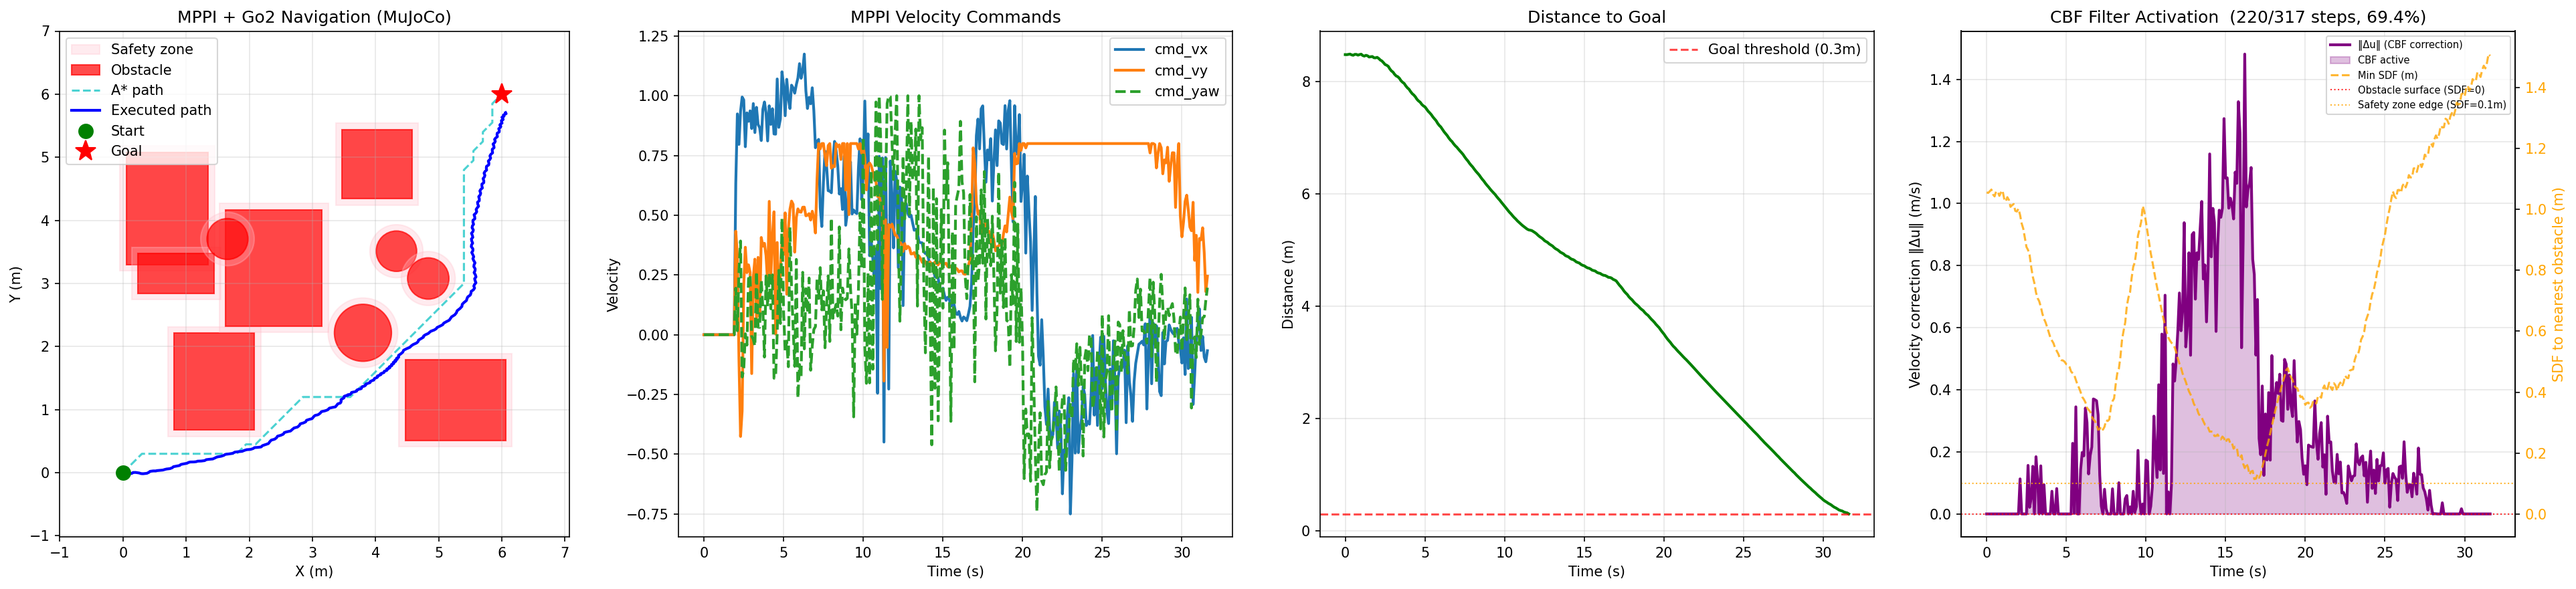
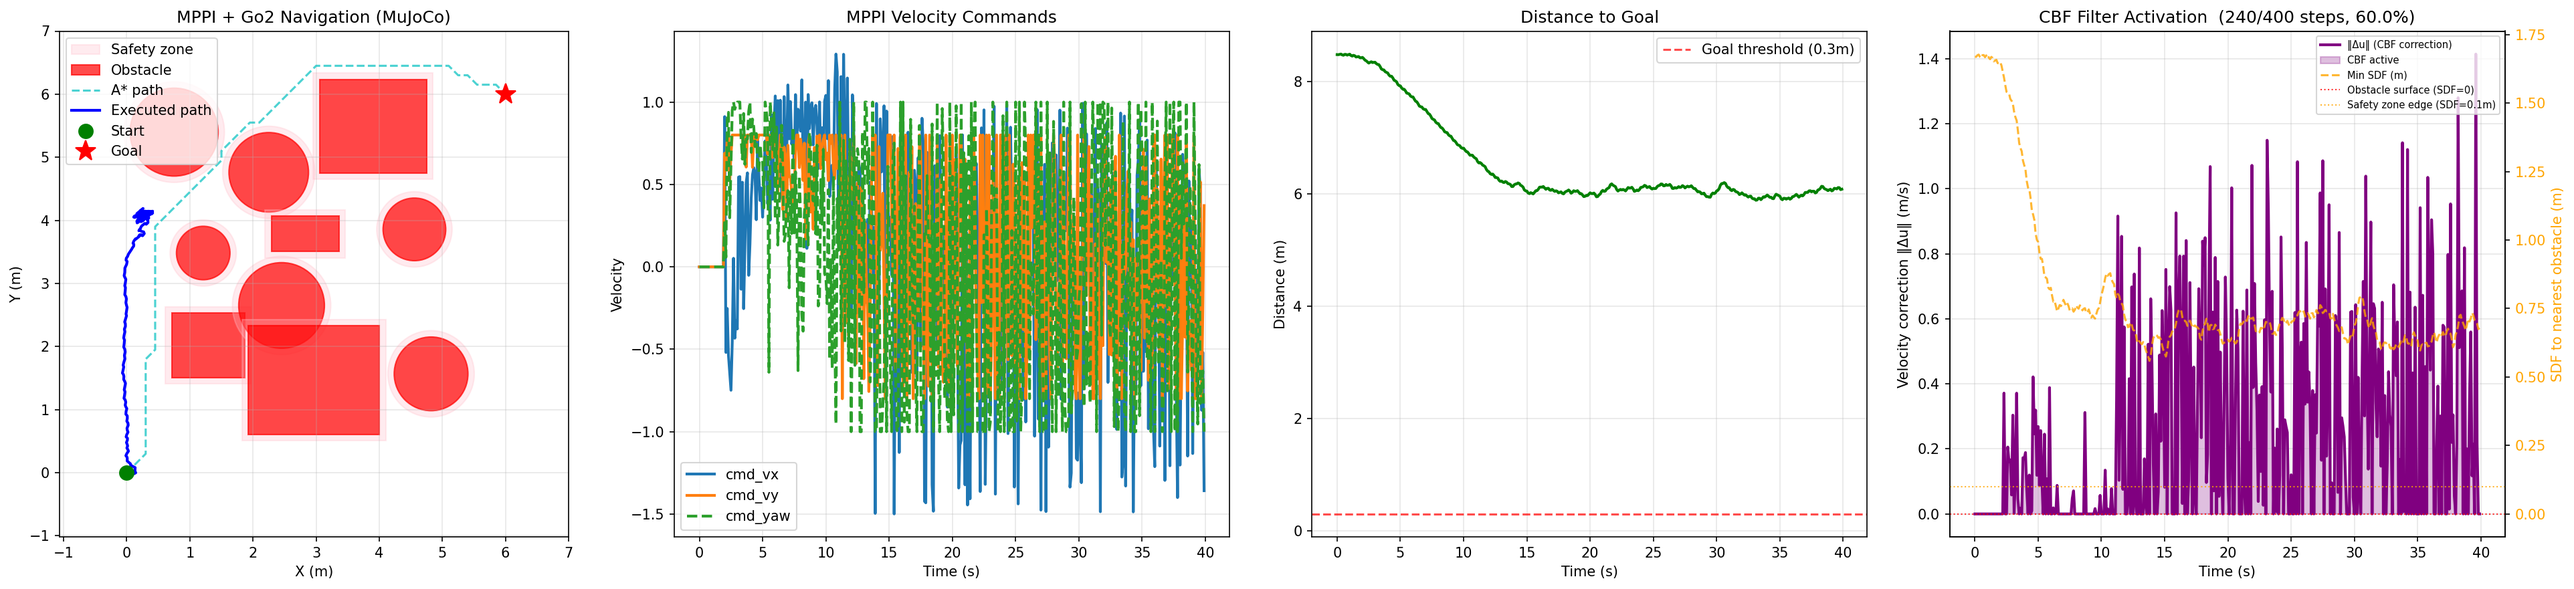
fix #1

diff --git a/global_planner.py b/global_planner.py
@@ -31,16 +31,26 @@ class AStarPlanner:
         bounds: Tuple[float, float, float, float],  # xmin, xmax, ymin, ymax
         resolution: float = 0.15,
         safety_margin: float = 0.5,
+        robot_half_width: float = 0.0,
+        robot_half_length: float = 0.0,
     ):
-        self.obstacles     = obstacles
-        self.resolution    = resolution
-        self.safety_margin = safety_margin
+        self.obstacles          = obstacles
+        self.resolution         = resolution
+        self.safety_margin      = safety_margin
+        # Lateral half-extent used for grid inflation.  A cell is free only if
+        # the dog's side can clear the obstacle by at least safety_margin when
+        # the body is aligned with the passage (best-case orientation).
+        self.robot_half_width   = robot_half_width
+        # Fore-aft half-extent kept for reference / future use.
+        self.robot_half_length  = robot_half_length
 
         self.xmin, self.xmax, self.ymin, self.ymax = bounds
         self.nx = int(np.ceil((self.xmax - self.xmin) / resolution)) + 1
         self.ny = int(np.ceil((self.ymax - self.ymin) / resolution)) + 1
 
         print(f"A* grid: {self.nx}×{self.ny} cells at {resolution:.2f} m resolution")
+        print(f"  Robot footprint: {2*robot_half_length:.2f} m × {2*robot_half_width:.2f} m  "
+              f"effective margin: {safety_margin + robot_half_width:.2f} m")
         self.grid = self._build_grid()
         free = int(np.sum(~self.grid))
         print(f"  Free cells: {free}/{self.nx * self.ny}")
@@ -48,13 +58,22 @@ class AStarPlanner:
     # ── grid helpers ──────────────────────────────────────────────────────────
 
     def _build_grid(self) -> np.ndarray:
-        """True = occupied (inside inflated obstacle), False = free."""
+        """True = occupied (inside inflated obstacle), False = free.
+
+        A cell is marked occupied if the robot's center placed there would put
+        the dog's lateral body surface closer than ``safety_margin`` to any
+        obstacle surface, assuming the dog is optimally aligned (long axis
+        parallel to the passage).  This means the required center-to-surface
+        clearance is ``safety_margin + robot_half_width``, ensuring A* only
+        plans paths the dog can physically thread through.
+        """
+        effective_margin = self.safety_margin + self.robot_half_width
         grid = np.zeros((self.nx, self.ny), dtype=bool)
         for ix in range(self.nx):
             for iy in range(self.ny):
                 pos = self._idx_to_pos(ix, iy)
                 for obs in self.obstacles:
-                    if obs.distance_from_surface(pos) < self.safety_margin:
+                    if obs.distance_from_surface(pos) < effective_margin:
                         grid[ix, iy] = True
                         break
         return grid

diff --git a/mppi_go2.py b/mppi_go2.py
@@ -142,31 +142,26 @@ class MPPIGo2Controller(MPPIController):
             velocity = state[3:5]
             cost += self.Q_velocity * np.linalg.norm(velocity) ** 2
 
-            # Obstacle costs — rectangular footprint distance instead of
-            # point-mass distance.  The robot's half-extents are projected
-            # onto the direction toward each obstacle centre so that a narrow
-            # corridor favours aligning the long axis with the passage.
+            # Obstacle costs — bounding-rectangle footprint.
+            # Evaluate the SDF at each of the 4 corners of the robot's body
+            # rectangle and take the minimum, giving the true closest clearance
+            # from any part of the dog's body to each obstacle surface.
             cos_y = np.cos(yaw)
             sin_y = np.sin(yaw)
+            # 4 corners in body frame (long-axis = x, lateral = y)
+            corners = []
+            for lx, ly in (( GO2_HALF_LENGTH,  GO2_HALF_WIDTH),
+                            ( GO2_HALF_LENGTH, -GO2_HALF_WIDTH),
+                            (-GO2_HALF_LENGTH,  GO2_HALF_WIDTH),
+                            (-GO2_HALF_LENGTH, -GO2_HALF_WIDTH)):
+                corners.append(np.array([
+                    x + lx * cos_y - ly * sin_y,
+                    y + lx * sin_y + ly * cos_y,
+                ]))
+
             for obstacle in obstacles:
-                dist_center = obstacle.distance_from_surface(state[:2])
-
-                # Support-function half-extent of the robot rectangle in the
-                # direction toward the obstacle centre.
-                dx = obstacle.x - x
-                dy = obstacle.y - y
-                d_obs = np.hypot(dx, dy)
-                if d_obs > 1e-6:
-                    # Unit vector toward obstacle in world frame → body frame
-                    nx_body =  (dx * cos_y + dy * sin_y) / d_obs
-                    ny_body = (-dx * sin_y + dy * cos_y) / d_obs
-                    half_extent = (GO2_HALF_LENGTH * abs(nx_body) +
-                                   GO2_HALF_WIDTH  * abs(ny_body))
-                else:
-                    half_extent = max(GO2_HALF_LENGTH, GO2_HALF_WIDTH)
-
-                # Distance from the robot's footprint surface to the obstacle
-                dist = dist_center - half_extent
+                # Minimum clearance from the dog's footprint to this obstacle
+                dist = min(obstacle.distance_from_surface(c) for c in corners)
 
                 if dist < obstacle.safety_margin:
                     penetration = obstacle.safety_margin - dist

diff --git a/go2_sim.py b/go2_sim.py
@@ -42,7 +42,7 @@ _HERE = os.path.dirname(os.path.abspath(__file__))
 sys.path.insert(0, _HERE)
 
 from mppi_hard_constraint import Obstacle, MPPISimulation
-from mppi_go2 import MPPIGo2Controller
+from mppi_go2 import MPPIGo2Controller, GO2_HALF_WIDTH, GO2_HALF_LENGTH
 from global_planner import AStarPlanner
 
 # ── paths ────────────────────────────────────────────────────────────────────
@@ -477,6 +477,8 @@ class Go2Simulator:
             obstacles, bounds,
             resolution=0.15,
             safety_margin=mppi.safety_margin,
+            robot_half_width=GO2_HALF_WIDTH,
+            robot_half_length=GO2_HALF_LENGTH,
         )
         global_path = astar.plan(start_pos, goal)
         if global_path is None:
